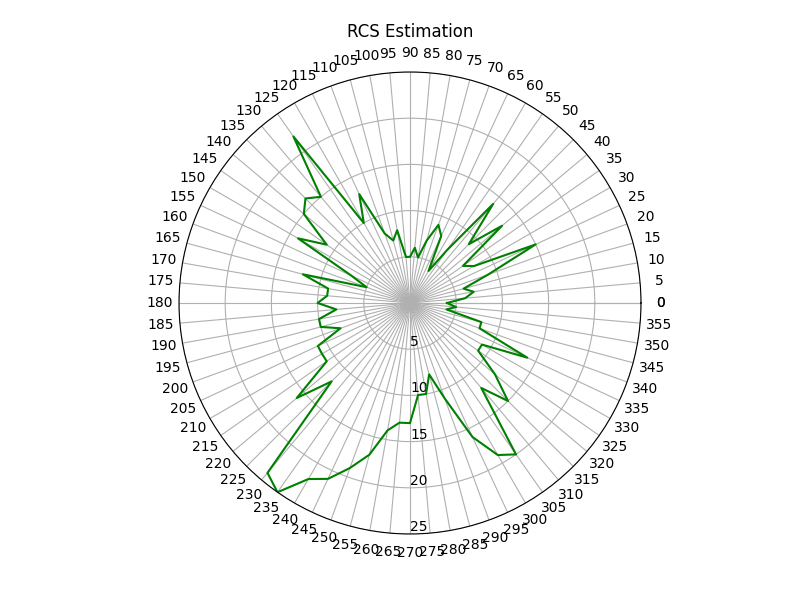
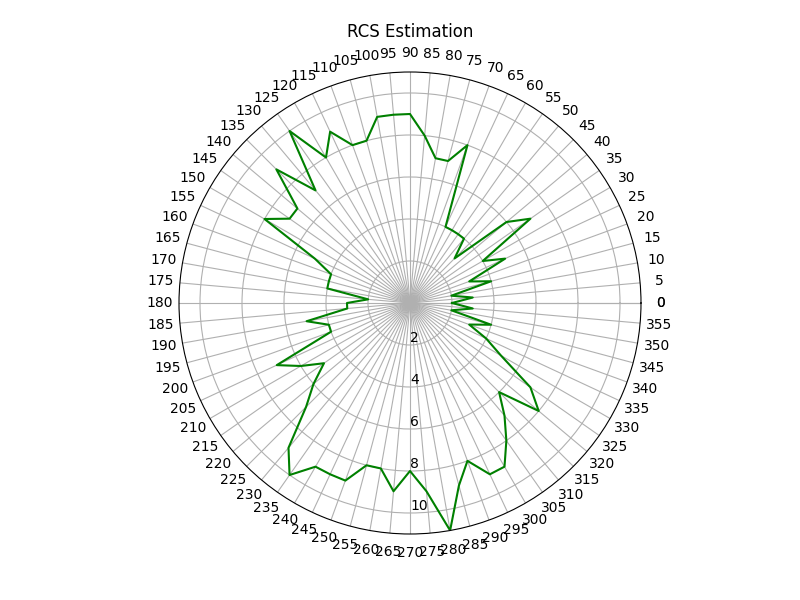
Update

diff --git a/RadarSim.py b/RadarSim.py
@@ -9,6 +9,11 @@ from RayTracer import opticalElement
 from RayTracer.opticalElement import BLACK, GREEN, WHITE, RED, BLUE
 
 
+class FlatReceiver(opticalElement.FlatMirror):
+    def elementType(self):
+        return 'FlatReceiver'
+
+
 def screen_map_function(pos):
     return (
         int(pos[0] + (canvas_size[0] / 2)),
@@ -96,28 +101,29 @@ def polygon_mirror(src_b_, elements_):
 
 def circle_receiver(elements_, start_points, start_ang, radius):
     for i_ in range(len(start_points)):
-        elements_.append(
-            opticalElement.CurvedMirror(
-                start_points[i_],
-                start_ang[i_],
-                [10, radius],
-                {'color': BLACK}
-            )
-        )
+        # elements_.append(
+        #     opticalElement.CurvedMirror(
+        #         start_points[i_],
+        #         start_ang[i_],
+        #         [10, radius],
+        #         {'color': BLACK}
+        #     )
+        # )
+        elements_.append(FlatReceiver(start_points[i_], start_ang[i_]+90, 10, {'color': BLACK}))
     return elements_
 
 
 def ray_scan(start_point, ang_offset, rays_):
     for i_ in range(int(180 / 5) + 1):
-        if 17 < i_ < 19:
-            theta = 5 * i_ + ang_offset
-            rays_.append(
-                {
-                    'pos': np.array(list(start_point)),
-                    'dir': np.array([np.cos(np.pi * theta / 180), np.sin(np.pi * theta / 180)]),
-                    'color': GREEN
-                }
-            )
+        # if 17 < i_ < 19:
+        theta = 5 * i_ + ang_offset
+        rays_.append(
+            {
+                'pos': np.array(list(start_point)),
+                'dir': np.array([np.cos(np.pi * theta / 180), np.sin(np.pi * theta / 180)]),
+                'color': GREEN
+            }
+        )
     return rays_
 
 
@@ -135,7 +141,7 @@ def ray_trace(rays_, stat_):
             closest_elem = None
             closest_intersect = None
             for elem in elements:
-                if elem.elementType() == 'CurvedMirror' and r['color'] != RED:
+                if elem.elementType() == 'FlatReceiver' and r['color'] != RED:
                     continue
                 intersect = elem.rayIntersection(r['pos'], r['dir'])
                 # CurvedMirror would intersect rays on opposite direction
@@ -150,8 +156,8 @@ def ray_trace(rays_, stat_):
                     closest_intersect = intersect
             if closest_elem is not None:
                 closest_elem.properties['color'] = RED
-                if closest_elem.elementType() == 'CurvedMirror':
-                    stat_[closest_elem.orientation] += 1
+                if closest_elem.elementType() == 'FlatReceiver':
+                    stat_[closest_elem.orientation-90] += 1
                     dir_new = r['dir']
                     dir_new = dir_new / np.linalg.norm(dir_new)
                     r['intersect'] = closest_intersect
